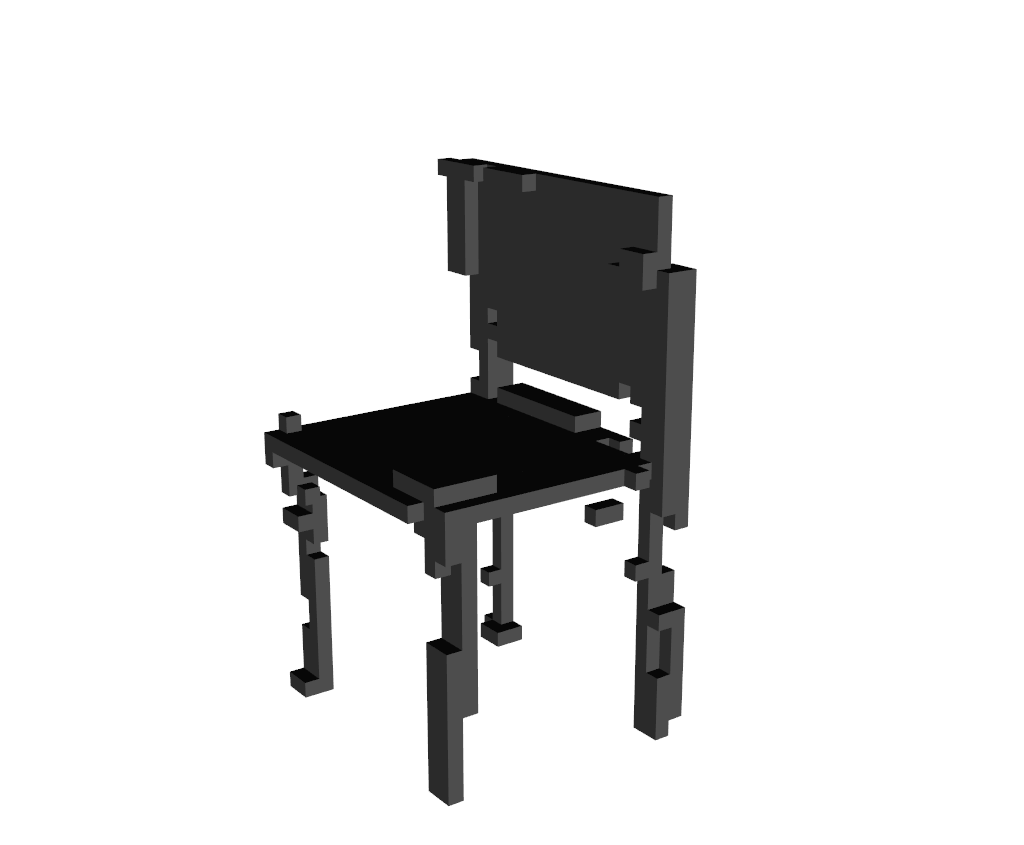
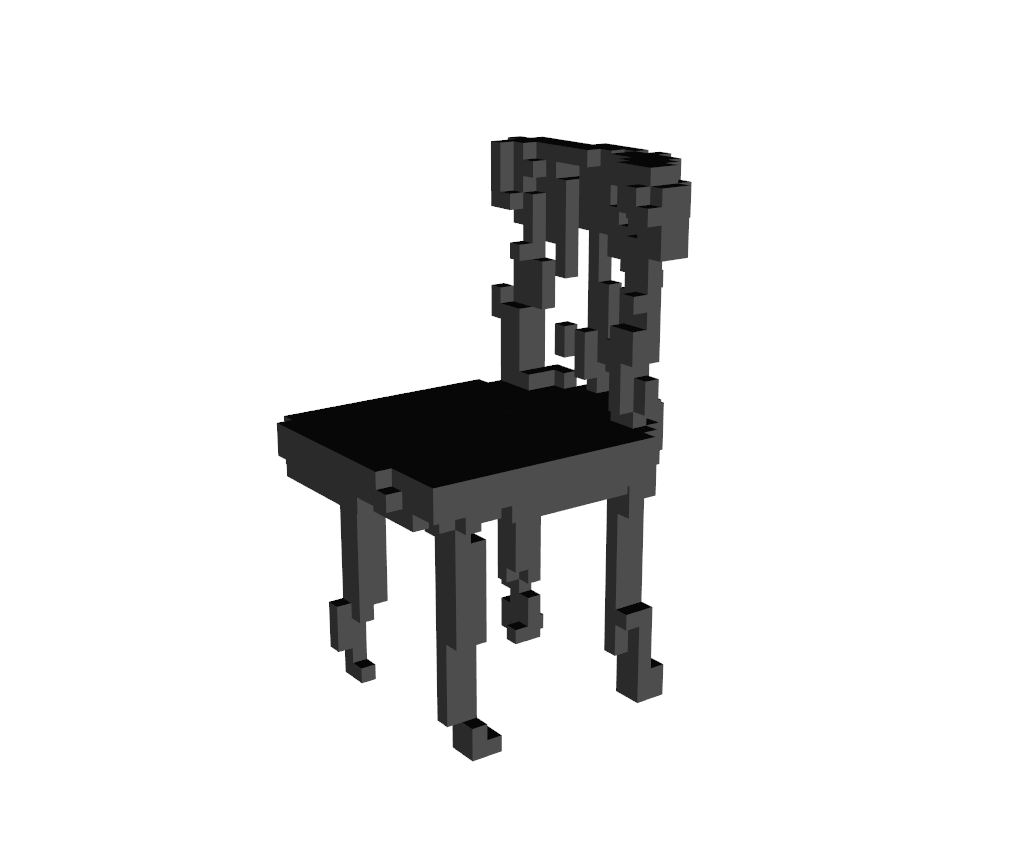
improved sketchiing

Changed region(s): [[0.25, 0.1538, 0.6875, 0.9538]]

diff --git a/test_funcs/test_contour.py b/test_funcs/test_contour.py
@@ -25,76 +25,67 @@ for c in colors:
     cv2.waitKey(0)
     cv2.destroyWindow(str(c))
 
-gray = cv2.cvtColor(image, cv2.COLOR_BGR2GRAY)
-gray = cv2.bilateralFilter(gray, 11, 100,100)
-print(gray)
-cv2.imshow('image', gray)
-cv2.waitKey(0)
-cv2.destroyWindow('image')
-edged = cv2.Canny(gray, 150, 250, 200)
-cv2.imshow('Edged', edged)
-cv2.waitKey(0)
-cv2.destroyWindow('Edged')
-
-# find contours in the edged image, keep only the largest
-# ones, and initialize our screen contour
-im2, contours, hierarchy = cv2.findContours(edged, cv2.RETR_TREE, cv2.CHAIN_APPROX_SIMPLE)[:]
-cv2.imshow("Contours", im2)
-cv2.waitKey(0)
-cv2.destroyWindow("Contours")
-contours = sorted(contours, key=lambda x: cv2.arcLength(x, False), reverse=True)
-contours = contours[:10]
-print(contours[0].shape)
-contours = sorted(contours, key=lambda x: x.shape[0], reverse=True)
-contours = contours[:]
-j = 0
-for c in contours:
-    j += 1
-    im = cv2.drawContours(image.copy(), [c], -1, (0, 255, 0), 3)
-    cv2.imshow(str(j), im)
+all_contours = []
+for image in images:
+    gray = cv2.bilateralFilter(image, 11, 100, 100)
+    cv2.imshow('image', gray)
     cv2.waitKey(0)
-    cv2.destroyWindow(str(j))
-# hierarchy = sorted(hierarchy, key=lambda x: x[1], reverse=True)
-# contours = [contours[i] for i in hierarchy[0][:,0]]
-
-# screenCnt = []
-# for c in contours:
-#     segments = []
-#     print(c.shape)
-#     for i in range(len(c) - 1):
-#         segments.append([c[i], c[i + 1]])
-#     screenCnt.append(np.array(segments))
-# print(screenCnt)
-# contours = sorted(screenCnt, key=lambda x: cv2.arcLength(x, False), reverse=True)
-
-im = cv2.drawContours(image.copy(), contours[:20], -1, (0, 255, 0), 3)
-cv2.imshow("10 Longest Contours", im)
-cv2.waitKey(0)
-cv2.destroyWindow("10 Longest Contours")
-smoothened = []
-for c in contours[:5]:
-    # approximate the contour
-    peri = cv2.arcLength(c, True)
-    approx = cv2.approxPolyDP(c, 0.0001 * peri, False)
-    smoothened.append(approx)
-
-moresmooth = []
-for contour in smoothened[:5]:
-    x, y = contour.T
-    # Convert from numpy arrays to normal arrays
-    x = x.tolist()[0]
-    y = y.tolist()[0]
-    # https://docs.scipy.org/doc/scipy-0.14.0/reference/generated/scipy.interpolate.splprep.html
-    tck, u = splprep([x, y], u=None, s=10000, per=0, k=3)
-    # https://docs.scipy.org/doc/numpy-1.10.1/reference/generated/numpy.linspace.html
-    u_new = np.linspace(u.min(), u.max(), 10000)
-    # https://docs.scipy.org/doc/scipy-0.14.0/reference/generated/scipy.interpolate.splev.html
-    x_new, y_new = splev(u_new, tck, der=0)
-    # Convert it back to numpy format for opencv to be able to display it
-    res_array = [[[int(i[0]), int(i[1])]] for i in zip(x_new, y_new)]
-    moresmooth.append(np.asarray(res_array, dtype=np.int32))
-
-im = cv2.drawContours(np.ones(image.shape), moresmooth, -1, (0, 0, 0), 3)
+    cv2.destroyWindow('image')
+    edged = cv2.Canny(gray, 150, 250, 200)
+    cv2.imshow('Edged', edged)
+    cv2.waitKey(0)
+    cv2.destroyWindow('Edged')
+    # find contours in the edged image, keep only the largest
+    # ones, and initialize our screen contour
+    im2, contours, hierarchy = cv2.findContours(edged, cv2.RETR_TREE, cv2.CHAIN_APPROX_SIMPLE)[:]
+    # cv2.imshow("Contours", im2)
+    # cv2.waitKey(0)
+    # cv2.destroyWindow("Contours")
+    # contours = sorted(contours, key=lambda x: cv2.arcLength(x, False), reverse=True)
+    contours1 = sorted(contours, key=cv2.contourArea, reverse=True)[:2]
+    contours2 = sorted(contours, key=lambda x: cv2.arcLength(x, False), reverse=True)[:2]
+    contours = []
+    contours.extend(contours1)
+    contours.extend(contours2)
+    im = cv2.drawContours(image.copy(), contours1, -1, (150, 150, 150), 3)
+    im = cv2.drawContours(im.copy(), contours2, -1, (150, 150, 150), 3)
+    cv2.imshow("10 Longest Contours", im)
+    cv2.waitKey(0)
+    cv2.destroyWindow("10 Longest Contours")
+    smoothened = []
+    for c in contours:
+        # approximate the contour
+        peri = cv2.arcLength(c, True)
+        approx = cv2.approxPolyDP(c, 0.0001 * peri, False)
+        smoothened.append(approx)
+    im = cv2.drawContours(image.copy(), smoothened, -1, (150, 150, 150), 3)
+    cv2.imshow("Hey", im)
+    cv2.waitKey(0)
+    cv2.destroyWindow("Hey")
+    moresmooth = []
+    for contour in smoothened:
+        x, y = contour.T
+        # Convert from numpy arrays to normal arrays
+        x = x.tolist()[0]
+        y = y.tolist()[0]
+        # https://docs.scipy.org/doc/scipy-0.14.0/reference/generated/scipy.interpolate.splprep.html
+        tck, u = splprep([x, y], u=None, s=10000, per=0, k=3)
+        # https://docs.scipy.org/doc/numpy-1.10.1/reference/generated/numpy.linspace.html
+        u_new = np.linspace(u.min(), u.max(), 10000)
+        # https://docs.scipy.org/doc/scipy-0.14.0/reference/generated/scipy.interpolate.splev.html
+        x_new, y_new = splev(u_new, tck, der=0)
+        # Convert it back to numpy format for opencv to be able to display it
+        res_array = [[[int(i[0]), int(i[1])]] for i in zip(x_new, y_new)]
+        all_contours.append(np.array(res_array, dtype=np.int32))
+        moresmooth.append(np.array(res_array, dtype=np.int32))
+    im = cv2.drawContours(np.ones(image.shape), np.array(moresmooth, dtype=np.int32), -1, (0, 0, 0), 3)
+    cv2.imshow("Sketch", im)
+    cv2.waitKey(0)
+    cv2.destroyWindow("Sketch")
+    # all_contours.append(moresmooth)
+print(len(all_contours))
+all_contours = sorted(all_contours, key=lambda x: cv2.arcLength(x, False), reverse=True)
+im = cv2.drawContours(np.ones(image.shape), np.array(all_contours, dtype=np.int32), -1, (0, 0, 0), 3)
 cv2.imshow("Sketch", im)
 cv2.waitKey(0)
 cv2.destroyWindow("Sketch")
